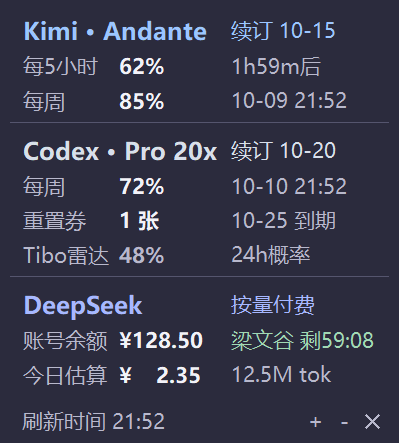
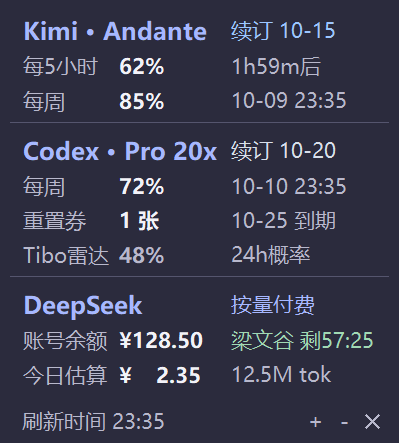
Unify platform titles with each theme's DeepSeek color
AI-Agent: Codex

diff --git a/tests/test_incremental_idle.py b/tests/test_incremental_idle.py
@@ -115,13 +115,14 @@ class IdleTests(unittest.TestCase):
         self.assertEqual(a._commands.window.state(),'withdrawn')
         self.assertNotEqual(a._commands.window.title(), a.root.title())
 
-    def test_brand_and_renewal_no_longer_consume_green_status(self):
+    def test_titles_share_deepseek_color_and_do_not_consume_status_colors(self):
         a=self.app
         for name,palette in fixtures.monitor.THEMES.items():
             a._set_theme(name)
             self.assertNotEqual(palette['CODEX_SOFT'],palette['RADAR_DOWN'])
-            if name in ('dark','glass'):
-                self.assertEqual(a.section_titles['Codex'].cget('fg'),'#d8dfea')
+            for title in a.section_titles.values():
+                self.assertEqual(title.cget('fg'),palette['DEEPSEEK_SOFT'])
+                self.assertNotIn(title.cget('fg'),(palette['RADAR_UP'],palette['RADAR_DOWN']))
 
 
 class EventTests(unittest.TestCase):

diff --git a/widget_style.py b/widget_style.py
@@ -4,7 +4,8 @@ TRANSP_KEY = "#010102"  # glass colorkey: root pixels of this color go transpare
 def _palette(label, bg, card, text, muted, border, accent, brands,
              warning, danger, relief="flat", border_width=0):
     return dict(LABEL=label, BG=bg, BG_CARD=card, FG_TEXT=text, FG_DIM=muted,
-                BORDER=border, ACCENT=accent, BRANDS=dict(zip(("Kimi", "GLM", "Codex", "DeepSeek"), brands)),
+                BORDER=border, ACCENT=accent,
+                BRANDS=dict.fromkeys(("Kimi", "GLM", "Codex", "DeepSeek"), brands[3]),
                 KIMI_SOFT=brands[0], GLM_SOFT=brands[1], CODEX_SOFT=brands[2], DEEPSEEK_SOFT=brands[3],
                 WARNING=warning, DANGER=danger, RELIEF=relief, BORDER_WIDTH=border_width)
 

diff --git a/app_version.py b/app_version.py
@@ -1,3 +1,3 @@
 """Single source for application identity (not data/cache schema versions)."""
-APP_VERSION = "1.6.0"
+APP_VERSION = "1.6.1"
 USER_AGENT = f"ai-quota-widget/{APP_VERSION}"

diff --git a/CHANGELOG.md b/CHANGELOG.md
@@ -1,5 +1,11 @@
 # Changelog
 
+## v1.6.1 — 2026-10-05
+
+- 各平台标题统一为所在主题的 DeepSeek 标题色；毛玻璃/月之暗面为原 DeepSeek 蓝紫色。续订、金额和红绿状态提示不变。
+
+AI-Agent: Codex
+
 ## v1.6.0 — 2026-10-05
 
 - Codex 品牌标题/续订改为中性色，红绿留给状态与变化提示；六主题保持原布局。
